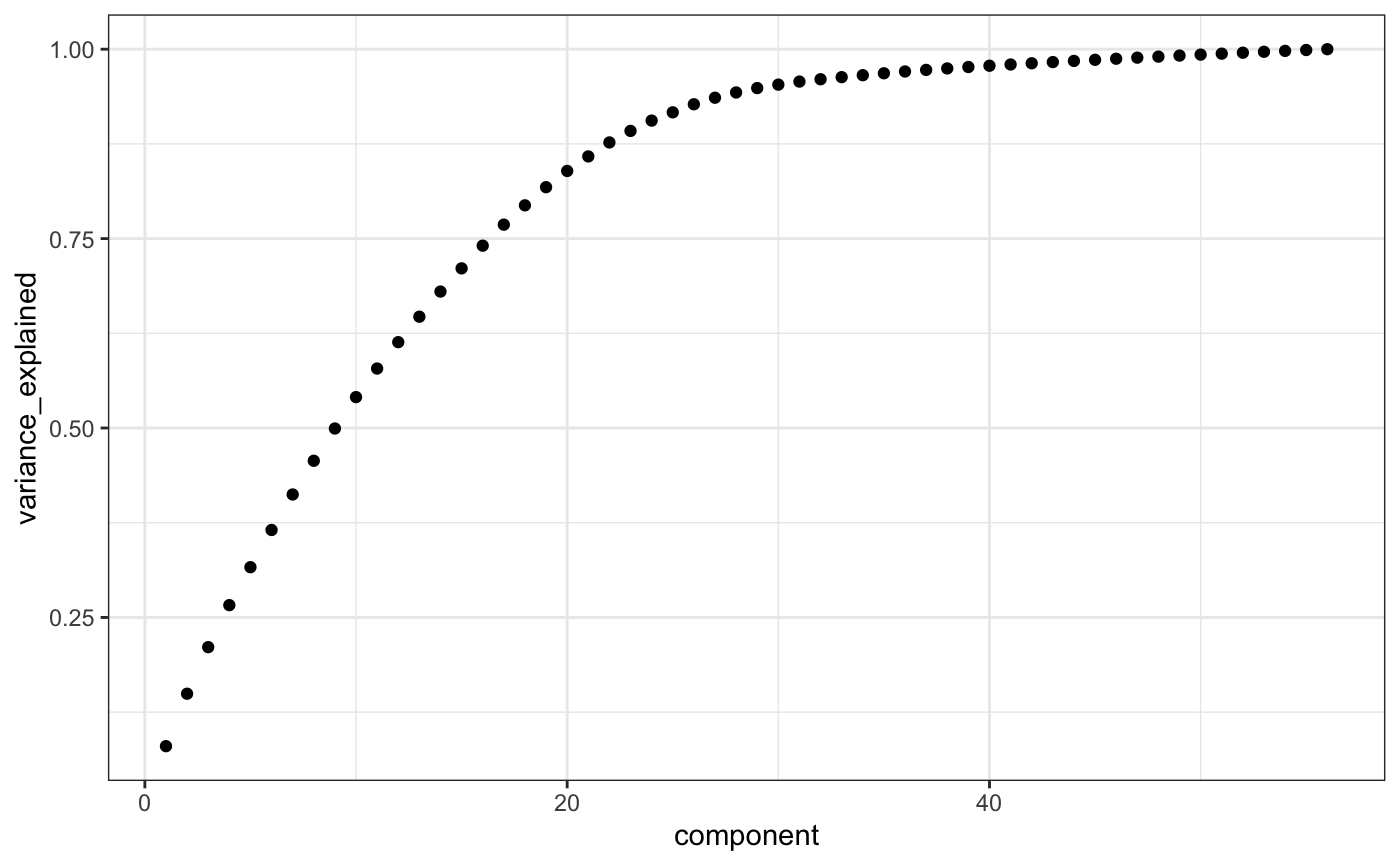
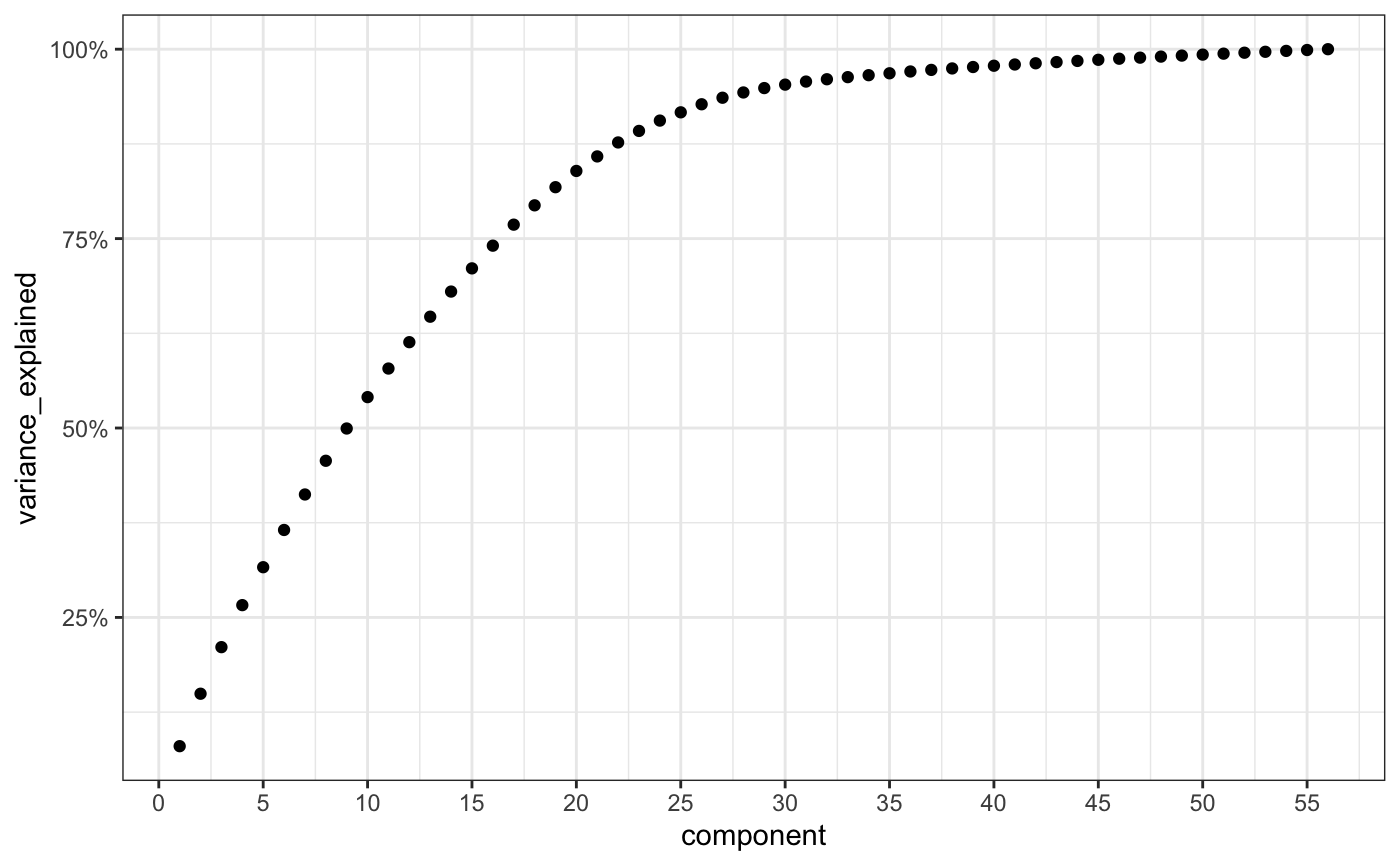
Built site for liminal: 0.0.4.9999@fe7d52a

diff --git a/reference/limn_tour_link.html b/reference/limn_tour_link.html
@@ -6,7 +6,7 @@
 <meta http-equiv="X-UA-Compatible" content="IE=edge">
 <meta name="viewport" content="width=device-width, initial-scale=1.0">
 
-<title>Tour a high dimensional dataset — limn_tour • liminal</title>
+<title>Link a 2-d embedding with a tour — limn_tour_link • liminal</title>
 
 
 <!-- jquery -->
@@ -39,8 +39,8 @@
 
 
 
-<meta property="og:title" content="Tour a high dimensional dataset — limn_tour" />
-<meta property="og:description" content="Tour a high dimensional dataset" />
+<meta property="og:title" content="Link a 2-d embedding with a tour — limn_tour_link" />
+<meta property="og:description" content="Link a 2-d embedding with a tour" />
 
 
 
@@ -118,108 +118,104 @@
 <div class="row">
   <div class="col-md-9 contents">
     <div class="page-header">
-    <h1>Tour a high dimensional dataset</h1>
+    <h1>Link a 2-d embedding with a tour</h1>
     
-    <div class="hidden name"><code>limn_tour.Rd</code></div>
+    <div class="hidden name"><code>limn_tour_link.Rd</code></div>
     </div>
 
     <div class="ref-description">
-    <p>Tour a high dimensional dataset</p>
+    <p>Link a 2-d embedding with a tour</p>
     </div>
 
-    <pre class="usage"><span class='fu'>limn_tour</span>(
-  <span class='kw'>.data</span>,
-  <span class='kw'>cols</span>,
-  color = <span class='kw'>NULL</span>,
+    <pre class="usage"><span class='fu'>limn_tour_link</span>(
+  <span class='kw'>embed_data</span>,
+  <span class='kw'>tour_data</span>,
+  embed_color = <span class='kw'>NULL</span>,
+  tour_color = <span class='kw'>NULL</span>,
   tour_path = <span class='kw'>tourr</span>::<span class='fu'><a href='https://rdrr.io/pkg/tourr/man/grand_tour.html'>grand_tour</a></span>(),
   rescale = <span class='kw'>clamp</span>,
-  morph = <span class='st'>"center"</span>
+  morph = <span class='st'>"center"</span>,
+  reference = <span class='kw'>NULL</span>
 )</pre>
 
     <h2 class="hasAnchor" id="arguments"><a class="anchor" href="#arguments"></a>Arguments</h2>
     <table class="ref-arguments">
     <colgroup><col class="name" /><col class="desc" /></colgroup>
     <tr>
-      <th>.data</th>
-      <td><p>a data.frame to tour</p></td>
+      <th>embed_data</th>
+      <td><p>A <code>data.frame</code> representing embedding coordinates</p></td>
     </tr>
     <tr>
-      <th>cols</th>
-      <td><p>Columns to tour. This can use a tidyselect specification
-such as <code><a href='https://tidyselect.r-lib.org/reference/starts_with.html'>tidyselect::starts_with()</a></code>.</p></td>
+      <th>tour_data</th>
+      <td><p>A <code>data.frame</code> that is linked to <code>.coords</code> to tour</p></td>
     </tr>
     <tr>
-      <th>color</th>
-      <td><p>A variable name in <code>.data</code>, mapping to the color aesthetic, if
-NULL points will be colored black.</p></td>
+      <th>embed_color</th>
+      <td><p>An optional bare column name in <code>embed</code> for color
+mapping the points in the embedding view.</p></td>
+    </tr>
+    <tr>
+      <th>tour_color</th>
+      <td><p>An optional bare column name in ``, for color
+mapping the points in the tour view.</p></td>
     </tr>
     <tr>
       <th>tour_path</th>
-      <td><p>the tour path to take, the default is <code><a href='https://rdrr.io/pkg/tourr/man/grand_tour.html'>tourr::grand_tour()</a></code>
-but also works with <code><a href='https://rdrr.io/pkg/tourr/man/guided_tour.html'>tourr::guided_tour()</a></code>.</p></td>
+      <td><p>the tour path to take, the default is <code><a href='https://rdrr.io/pkg/tourr/man/grand_tour.html'>tourr::grand_tour()</a></code>.</p></td>
     </tr>
     <tr>
       <th>rescale</th>
-      <td><p>A function that rescales <code>cols</code>, the default is to
-<code>clamp()</code> the data to lie in the hyperdimensional unit cube. To not perform
-any scaling use <code><a href='https://rdrr.io/r/base/identity.html'>identity()</a></code>.</p></td>
+      <td><p>A function that rescales tour columns. Default is <code>clamp()</code>
+To not perform any scaling use <code><a href='https://rdrr.io/r/base/identity.html'>identity()</a></code>.</p></td>
     </tr>
     <tr>
       <th>morph</th>
       <td><p>One of <code><a href='https://rdrr.io/r/base/c.html'>c("center", "centre", "identity", "radial")</a></code>
 that rescales each projection along the tour path. The default
 is to center the projections and divide by half range. See <code>morph_center()</code>
-for details.</p></td>
+for details for each of these functions.</p></td>
+    </tr>
+    <tr>
+      <th>reference</th>
+      <td><p>an optional data set to compute a nearest neighbors from.
+By default the <code>reference</code> is set to <code>NULL</code> in which case neighbors will be
+computed from <code>tour_data</code>. Otherwise <code>data.frame</code>, <code>matrix</code> or <code>dist</code>
+objects can be used.</p></td>
     </tr>
     </table>
 
-    <h2 class="hasAnchor" id="value"><a class="anchor" href="#value"></a>Value</h2>
-
-    <p>The tour interface loads a shiny app either in the Viewer pane
-if you are using Rstudio or in a browser window. After iterating through
-the tour and and highlighting subsets of interest, you can click the
-'Done' button. This will return a named list with two elements:</p><ul>
-<li><p><code>selected_basis</code>: a matrix consisting of the final projection selected</p></li>
-<li><p><code>selected_brush</code>: a matrix consisting of the bounding box of brush</p></li>
-</ul>
-
     <h2 class="hasAnchor" id="details"><a class="anchor" href="#details"></a>Details</h2>
 
-    <p>The tour interface consists of two views:</p><ol>
-<li><p>the tour view which is a dynamic scatterplot</p></li>
+    
+<ol>
+<li><p>The tour view on the left is a dynamic and interactive scatterplot. Brushing on the tour view
+is activated with the shift key plus a mouse drag. By default it will
+highlight corresponding points in the xy view and pause the animation.</p></li>
+<li><p>The xy view on the right is an interactive scatterplot. Brushing on the xy view
+will highlight points in the tour view and is activated via a mouse drag,
+the type of highlighting depends on the brush mode selected.</p></li>
 <li><p>the axis view which shows the direction and magnitude of the
-basis vectors being generated.</p></li>
+basis vectors being generated.
+There are several other user controls available:</p></li>
 </ol>
-
-<p>There are several other user controls available:</p><ul>
-<li><p>A play button, that when pressed will start the tour animation.</p></li>
-<li><p>A pause button, that when pressed will pause the tour animation.</p></li>
-<li><p>The title of the view includes the half range. The half range
+<ul>
+<li><p>There is a play button, that when pressed will start the tour.</p></li>
+<li><p>There is also a text view of the half range which is the maximum squared
+Euclidean distance between points in the tour view. The half range
 is a scale factor for projections and can be thought of as a way
-of zooming in and out on points. It can be  modified by scrolling
-(via a mouse-wheel movement). Double-click to reset to the default
-tour view.</p></li>
-<li><p>If categorical variable has been used, the legend can be toggled to
-highlight categories of interest with shift + mouse click.
-Multiple categories can be selected in this way. To reset double click
-the legend title.</p></li>
-<li><p>Brushing can be activtated by shift + mouse drag on the tour view.
-If the tour animation a brush event will pause it.</p></li>
+of zooming in and out on points. It can be dynamically modified by scrolling
+(via a mouse-wheel). To reset double click the tour view.</p></li>
+<li><p>The legend can be toggled to highlight groups of points with
+shift+mouse-click. Multiple groups can be selected in this way. To
+reset double click the legend title.</p></li>
+<li><p>There are different brushing modes that can be modified via
+radio buttons. Both neighbors and distance based brushing operate
+on the k-NN graph obtained from the control panel.</p></li>
 </ul>
 
-    <h2 class="hasAnchor" id="see-also"><a class="anchor" href="#see-also"></a>See also</h2>
-
-    <div class='dont-index'><p><code>compute_half_range()</code>, <code>morph_center()</code>, <code>limn_tour_link()</code></p></div>
 
     <h2 class="hasAnchor" id="examples"><a class="anchor" href="#examples"></a>Examples</h2>
-    <pre class="examples"><div class='input'><span class='co'>if</span> (<span class='fl'>FALSE</span>) {
-<span class='co'># tour the first ten columns of the fake tree data</span>
-<span class='co'># loads the default interface</span>
-<span class='fu'>limn_tour</span>(<span class='kw'>fake_trees</span>, <span class='kw'>dim1</span><span class='op'>:</span><span class='kw'>dim10</span>)
-<span class='co'># perform the same action but now coloring points</span>
-<span class='fu'>limn_tour</span>(<span class='kw'>fake_trees</span>, <span class='kw'>dim1</span><span class='op'>:</span><span class='kw'>dim10</span>, color = <span class='kw'>branches</span>)
-}
-</div></pre>
+    <pre class="examples"></pre>
   </div>
   <div class="col-md-3 hidden-xs hidden-sm" id="pkgdown-sidebar">
     <nav id="toc" data-toggle="toc" class="sticky-top">

diff --git a/articles/pdfsense.html b/articles/pdfsense.html
@@ -120,10 +120,16 @@
 )
 
 <span class="fu">ggplot</span>(<span class="kw">res</span>, <span class="fu">aes</span>(x = <span class="kw">component</span>, y = <span class="kw">variance_explained</span>)) <span class="op">+</span>
-  <span class="fu">geom_point</span>()
+  <span class="fu">geom_point</span>() <span class="op">+</span>
+  <span class="fu">scale_x_continuous</span>(
+    breaks = <span class="fu"><a href="https://rdrr.io/r/base/seq.html">seq</a></span>(<span class="fl">0</span>, <span class="fl">60</span>, by = <span class="fl">5</span>)
+  ) <span class="op">+</span>
+  <span class="fu">scale_y_continuous</span>(
+    labels = <span class="fu">function</span>(<span class="kw">x</span>) <span class="fu"><a href="https://rdrr.io/r/base/paste.html">paste0</a></span>(<span class="fl">100</span><span class="op">*</span><span class="kw">x</span>, <span class="st">"%"</span>)
+  )
 </pre></div>
 <p><img src="pdfsense_files/figure-html/unnamed-chunk-2-1.png" width="700"></p>
-<p>Approximately %70 of the variance in the pdf fits are explained by the first 15 principal components.</p>
+<p>Approximately 70% of the variance in the pdf fits are explained by the first 15 principal components.</p>
 <p>Next we augment our original data with the principal components:</p>
 <div class="sourceCode" id="cb4"><pre class="downlit">
 <span class="kw">pdfsense</span> <span class="op">&lt;-</span> <span class="kw">dplyr</span>::<span class="fu"><a href="https://dplyr.tidyverse.org/reference/bind.html">bind_cols</a></span>(
@@ -143,22 +149,23 @@
 <p>Now we can set up a non-linear embedding via t-SNE, here we embed all 56 principal components.</p>
 <div class="sourceCode" id="cb6"><pre class="downlit">
 <span class="fu"><a href="https://rdrr.io/r/base/Random.html">set.seed</a></span>(<span class="fl">3099</span>)
-<span class="kw">tsne</span> <span class="op">&lt;-</span> <span class="kw">Rtsne</span>::<span class="fu"><a href="https://rdrr.io/pkg/Rtsne/man/Rtsne.html">Rtsne</a></span>(<span class="kw">dplyr</span>::<span class="fu"><a href="https://dplyr.tidyverse.org/reference/select.html">select</a></span>(<span class="kw">pdfsense</span>, <span class="kw">PC1</span><span class="op">:</span><span class="kw">PC56</span>),
-                     pca = <span class="fl">FALSE</span>, 
-                     normalize = <span class="fl">TRUE</span>,
-                     perplexity = <span class="fl">50</span>,
-                     exaggeration_factor = <span class="fu"><a href="https://rdrr.io/r/base/nrow.html">nrow</a></span>(<span class="kw">pdfsense</span>) <span class="op">/</span> <span class="fl">100</span>,
-                     Y_init = <span class="fu"><a href="../reference/clamp.html">clamp_sd</a></span>(<span class="fu"><a href="https://rdrr.io/r/base/matrix.html">as.matrix</a></span>(<span class="kw">dplyr</span>::<span class="fu"><a href="https://dplyr.tidyverse.org/reference/select.html">select</a></span>(<span class="kw">pdfsense</span>, <span class="kw">PC1</span>, <span class="kw">PC2</span>)))
+<span class="kw">start</span> <span class="op">&lt;-</span> <span class="fu"><a href="../reference/clamp.html">clamp_sd</a></span>(<span class="fu"><a href="https://rdrr.io/r/base/matrix.html">as.matrix</a></span>(<span class="kw">dplyr</span>::<span class="fu"><a href="https://dplyr.tidyverse.org/reference/select.html">select</a></span>(<span class="kw">pdfsense</span>, <span class="kw">PC1</span>, <span class="kw">PC2</span>)))
+<span class="kw">tsne</span> <span class="op">&lt;-</span> <span class="kw">Rtsne</span>::<span class="fu"><a href="https://rdrr.io/pkg/Rtsne/man/Rtsne.html">Rtsne</a></span>(
+  <span class="kw">dplyr</span>::<span class="fu"><a href="https://dplyr.tidyverse.org/reference/select.html">select</a></span>(<span class="kw">pdfsense</span>, <span class="kw">PC1</span><span class="op">:</span><span class="kw">PC56</span>),
+  pca = <span class="fl">FALSE</span>, 
+  normalize = <span class="fl">TRUE</span>,
+  perplexity = <span class="fl">50</span>,
+  exaggeration_factor = <span class="fu"><a href="https://rdrr.io/r/base/nrow.html">nrow</a></span>(<span class="kw">pdfsense</span>) <span class="op">/</span> <span class="fl">100</span>,
+  Y_init = <span class="kw">start</span>
 )
 </pre></div>
-<p>Again we can augment the embedding onto the pdfsense data:</p>
+<p>Once we have run t-SNE we tidy it into a <code>data.frame</code>, to perform a linked tour.</p>
 <div class="sourceCode" id="cb7"><pre class="downlit">
 <span class="kw">tsne_embedding</span> <span class="op">&lt;-</span> <span class="fu"><a href="https://rdrr.io/r/base/as.data.frame.html">as.data.frame</a></span>(<span class="kw">tsne</span><span class="op">$</span><span class="kw">Y</span>)
-<span class="kw">tsne_embedding</span> <span class="op">&lt;-</span> <span class="kw">dplyr</span>::<span class="fu"><a href="https://dplyr.tidyverse.org/reference/rename.html">rename</a></span>(<span class="kw">tsne_embedding</span>,
-                                tsneX = <span class="kw">V1</span>, tsneY = <span class="kw">V2</span>)
+<span class="kw">tsne_embedding</span> <span class="op">&lt;-</span> <span class="kw">dplyr</span>::<span class="fu"><a href="https://dplyr.tidyverse.org/reference/rename.html">rename</a></span>(<span class="kw">tsne_embedding</span>, tsneX = <span class="kw">V1</span>, tsneY = <span class="kw">V2</span>)
 <span class="kw">tsne_embedding</span><span class="op">$</span><span class="kw">Type</span> <span class="op">&lt;-</span> <span class="kw">pdfsense</span><span class="op">$</span><span class="kw">Type</span>
 </pre></div>
-<p>We can view the clusters:</p>
+<p>We can view the clusters using a static scatter plot:</p>
 <div class="sourceCode" id="cb8"><pre class="downlit">
 <span class="fu">ggplot</span>(<span class="kw">tsne_embedding</span>, 
        <span class="fu">aes</span>(x = <span class="kw">tsneX</span>, y = <span class="kw">tsneY</span>, color = <span class="kw">Type</span>)) <span class="op">+</span>
@@ -168,10 +175,12 @@
 <p><img src="pdfsense_files/figure-html/unnamed-chunk-6-1.png" width="700"></p>
 <p>We can link a tour view next to the embedding to give us a clear picture of the clustering:</p>
 <div class="sourceCode" id="cb9"><pre class="downlit">
-<span class="fu"><a href="../reference/limn_tour_xylink.html">limn_tour_xylink</a></span>(x = <span class="kw">dplyr</span>::<span class="fu"><a href="https://dplyr.tidyverse.org/reference/select.html">select</a></span>(<span class="kw">pdfsense</span>, <span class="kw">PC1</span><span class="op">:</span><span class="kw">PC6</span>, <span class="kw">Type</span>),
-                 y = <span class="kw">tsne_embedding</span>,
-                 x_color = <span class="kw">Type</span>,
-                 y_color= <span class="kw">Type</span>)
+<span class="fu"><a href="../reference/limn_tour_link.html">limn_tour_link</a></span>(
+  tour_data = <span class="kw">dplyr</span>::<span class="fu"><a href="https://dplyr.tidyverse.org/reference/select.html">select</a></span>(<span class="kw">pdfsense</span>, <span class="kw">PC1</span><span class="op">:</span><span class="kw">PC6</span>, <span class="kw">Type</span>),
+  embed_data = <span class="kw">tsne_embedding</span>,
+  tour_color = <span class="kw">Type</span>,
+  embed_color = <span class="kw">Type</span>
+)
 </pre></div>
 </div>
   </div>

diff --git a/articles/liminal.html b/articles/liminal.html
@@ -133,10 +133,10 @@
 <p>The topology is a little messed up as the blue branch is now broken into two distinct pieces.</p>
 <p>We can see where our embedding is different via a linked tour:</p>
 <div class="sourceCode" id="cb6"><pre class="downlit">
-<span class="fu"><a href="../reference/limn_tour_xylink.html">limn_tour_xylink</a></span>(<span class="kw">dplyr</span>::<span class="fu"><a href="https://dplyr.tidyverse.org/reference/select.html">select</a></span>(<span class="kw">fake_trees</span>, <span class="kw">PC1</span><span class="op">:</span><span class="kw">PC10</span>, <span class="kw">branches</span>),
-                 <span class="kw">tsne_df</span>,
-                 x_color = <span class="kw">branches</span>, 
-                 y_color = <span class="kw">branches</span>)
+<span class="fu"><a href="../reference/limn_tour_link.html">limn_tour_link</a></span>(<span class="kw">tsne_df</span>,
+               <span class="kw">dplyr</span>::<span class="fu"><a href="https://dplyr.tidyverse.org/reference/select.html">select</a></span>(<span class="kw">fake_trees</span>, <span class="kw">PC1</span><span class="op">:</span><span class="kw">PC10</span>, <span class="kw">branches</span>),
+               tour_color = <span class="kw">branches</span>, 
+               embed_color = <span class="kw">branches</span>)
 </pre></div>
 <p>This function requires two tables that will be linked together in seperate views. The tour interface is the same as above, except now brushing on the tour view will highlight points on the right hand side scatter plot. The right side scatterplot view is an interactive scatterplot. Brushing on the right view is activated via click and drag movements. It will highlight points in the tour view but the type of highlighting depends on the brush mode selected, the default is simple linked brushing. There are two other brushing modes that can be modified via radio buttons. Both neighbors and distance based brushing operate on the k-NN graph obtained from the control panel.</p>
   </div>

diff --git a/reference/index.html b/reference/index.html
@@ -173,9 +173,9 @@
       </tr><tr>
         
         <td>
-          <p><code><a href="limn_tour_xylink.html">limn_tour_xylink()</a></code> </p>
+          <p><code><a href="limn_tour_link.html">limn_tour_link()</a></code> </p>
         </td>
-        <td><p>View a tour, linked to a scatter plot.</p></td>
+        <td><p>Link a 2-d embedding with a tour</p></td>
       </tr><tr>
         
         <td>
